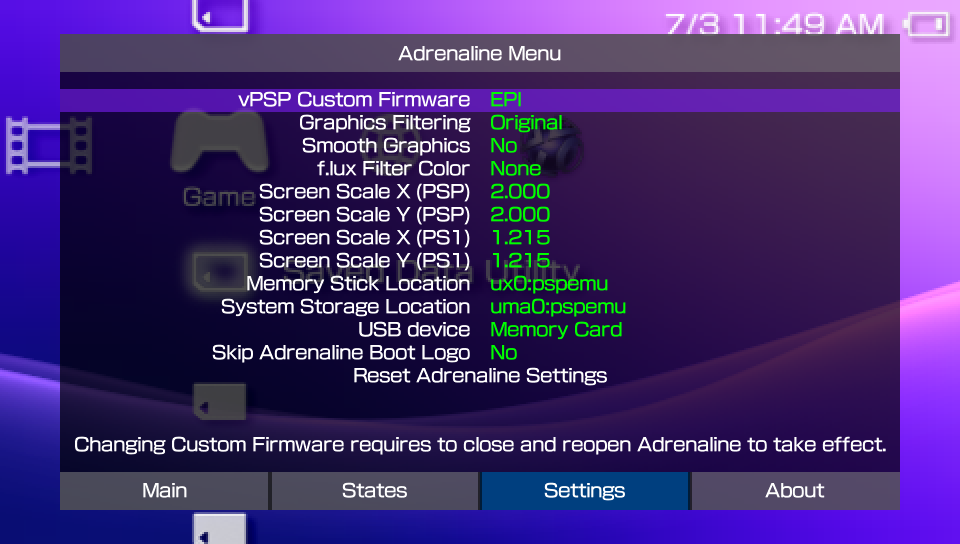
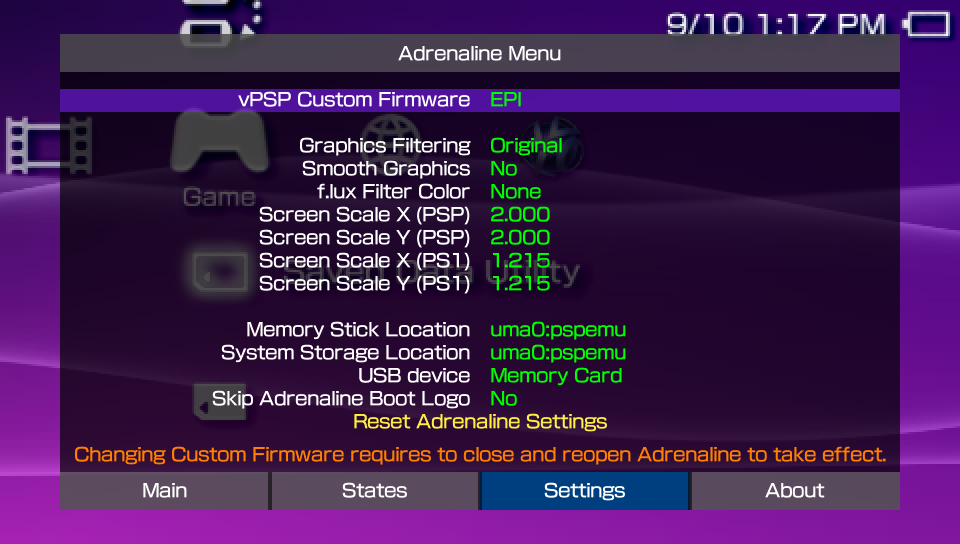
docs: Update changelog and images

diff --git a/docs/src/XX-Changelog.md b/docs/src/XX-Changelog.md
@@ -5,8 +5,10 @@
 
 ### Adrenaline
 - Add support to use files on `ux0:data/PSPEMUCFW/` instead of `ux0:app/PSPEMUCFW/`
+- Reduce memory usage
 - Fix savestate thumbnail on some graphical filters showing as one color plain image
 - Fix UTF-8 rendering on Adrenaline Menu
+- Fix a memory leak on error code path
 
 ### Epinephrine CFW
 
@@ -17,10 +19,14 @@
 - Add option to forcibly disable high memory layout **\[[docs](./08-CfwConfiguration.md#high-memory-layout)\]**
 - Fix branch logic for plugins patch
 - Fix formatting issues on recovery
+- Fix wrong logic on VSH isofs driver
+- Fix UB on virtualPBP initialization
+- Fix overflow on custom POPS `CONFIG.BIN` injection
 - Refactor SystemControl and Pentazemin modules to use `sctrlHENSetSystemBootedHandler`
+- Improve overall stability and performance
 
 - **DEV:** Introduce `sctrlHENSetSystemBootedHandler`
-	- It allows to se a handler that is called only once when the system just finished the boot sequence.
+	- It allows to set a handler that is called only once when the system just finished the boot sequence.
 - **DEV:** Expand `isoCtrl_driver` API with `isoGetUmdFile`, `isoReopenUmdFile`, `isoSwapUmdFile`.
 - **DEV:** Introduce `NoDrmHelper` CFW library
     - Although used internally for Epinephrine NoDRM engine, this could also be used to help implement plugins that closes eventual gaps in the NoDRM engine or even a external full implementation of a NoDRM engine.
